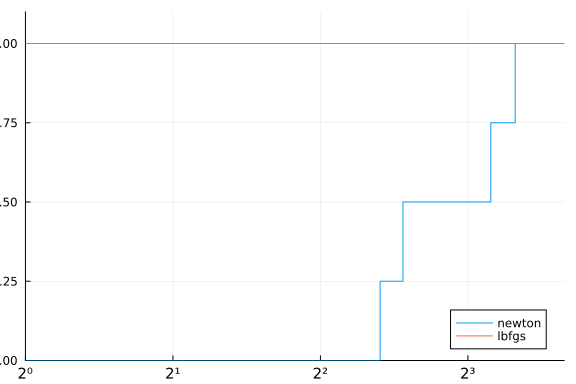
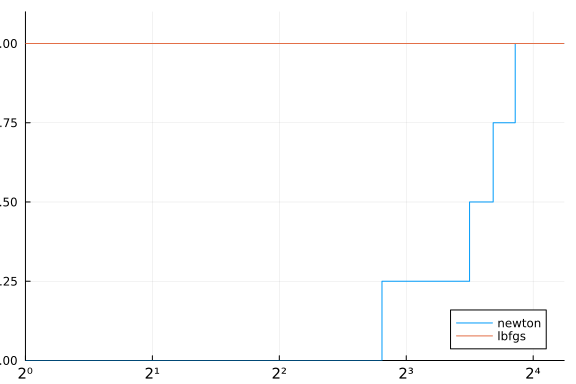
deploy: 6dc8c5f840c85fb76c339f71ccfbc610c3f5766c

diff --git a/creating-a-jso-compliant-solver/index.md b/creating-a-jso-compliant-solver/index.md
@@ -12,7 +12,7 @@ tags:
 [![NLPModels 0.20.0](https://img.shields.io/badge/NLPModels-0.20.0-8b0000?style=flat-square&labelColor=cb3c33)](https://juliasmoothoptimizers.github.io/NLPModels.jl/stable/)
 [![SolverCore 0.3.7](https://img.shields.io/badge/SolverCore-0.3.7-006400?style=flat-square&labelColor=389826)](https://juliasmoothoptimizers.github.io/SolverCore.jl/stable/)
 ![Plots 1.38.16](https://img.shields.io/badge/Plots-1.38.16-000?style=flat-square&labelColor=999)
-[![ADNLPModels 0.6.2](https://img.shields.io/badge/ADNLPModels-0.6.2-8b0000?style=flat-square&labelColor=cb3c33)](https://juliasmoothoptimizers.github.io/ADNLPModels.jl/stable/)
+[![ADNLPModels 0.7.0](https://img.shields.io/badge/ADNLPModels-0.7.0-8b0000?style=flat-square&labelColor=cb3c33)](https://juliasmoothoptimizers.github.io/ADNLPModels.jl/stable/)
 [![JSOSolvers 0.11.0](https://img.shields.io/badge/JSOSolvers-0.11.0-006400?style=flat-square&labelColor=389826)](https://juliasmoothoptimizers.github.io/JSOSolvers.jl/stable/)
 
 
@@ -97,11 +97,11 @@ nlp = ADNLPModel(
 ADNLPModel - Model with automatic differentiation backend ADModelBackend{
   ForwardDiffADGradient,
   ForwardDiffADHvprod,
-  ForwardDiffADJprod,
-  ForwardDiffADJtprod,
-  SparseADJacobian,
-  SparseADHessian,
-  ForwardDiffADGHjvprod,
+  EmptyADbackend,
+  EmptyADbackend,
+  EmptyADbackend,
+  ForwardDiffADHessian,
+  EmptyADbackend,
 }
   Problem name: Generic
    All variables: ████████████████████ 2      All constraints: ⋅⋅⋅⋅⋅⋅⋅⋅⋅⋅⋅⋅⋅⋅⋅⋅⋅⋅⋅⋅ 0     
@@ -381,7 +381,7 @@ Generic Execution stats
   objective value: Inf
   primal feasibility: 0.0
   dual feasibility: Inf
-  solution: [6.91979074891916e-310  6.9197913291396e-310]
+  solution: [6.9012452218629e-310  6.90124522185973e-310]
   iterations: -1
   elapsed time: Inf
 ```
@@ -616,7 +616,7 @@ Generic Execution stats
   dual feasibility: 4.018046284781729e-9
   solution: [0.9999999986742657  0.9999999970013461]
   iterations: 18
-  elapsed time: 7.009506225585938e-5
+  elapsed time: 8.487701416015625e-5
 ```
 
 
@@ -687,10 +687,10 @@ pretty_stats(stats[:newton][!, cols])
 ┌─────────┬─────────────┬───────────┬──────────────┬────────┐
 │    name │      status │ objective │ elapsed_time │   iter │
 ├─────────┼─────────────┼───────────┼──────────────┼────────┤
-│ Generic │ first_order │  6.16e-32 │     4.86e-01 │      1 │
-│ Generic │ first_order │  3.74e-21 │     5.15e-01 │     21 │
-│ Generic │    max_iter │ -8.36e+00 │     5.19e-01 │    100 │
-│ Generic │ first_order │  1.43e+00 │     4.68e-01 │      5 │
+│ Generic │ first_order │  6.16e-32 │     6.52e-01 │      1 │
+│ Generic │ first_order │  3.74e-21 │     6.92e-01 │     21 │
+│ Generic │    max_iter │ -8.36e+00 │     6.17e-01 │    100 │
+│ Generic │ first_order │  1.43e+00 │     5.68e-01 │      5 │
 └─────────┴─────────────┴───────────┴──────────────┴────────┘
 ```
 
